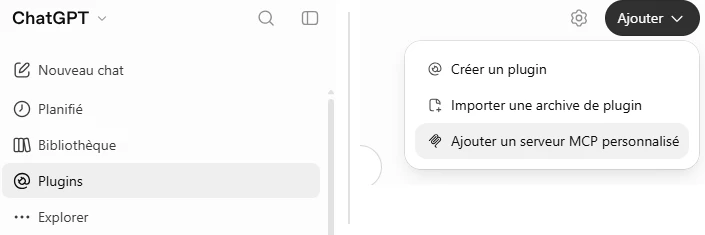
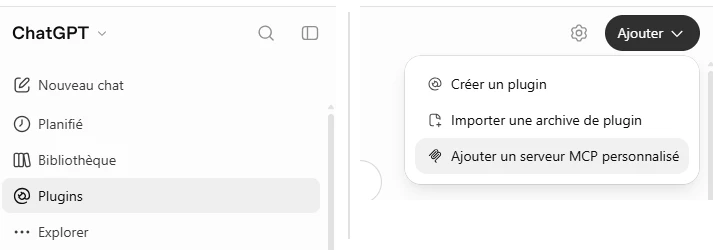
Version web 0.8.22 (BIVOUAC-TECH 9e8ef6f)

diff --git a/app/js/connect.js b/app/js/connect.js
@@ -37,7 +37,8 @@ B.connectWizard = ({ step = 0, ai: aiStart = null, onDone = null } = {}) => {
       <div class="cw-shot-body">${body}</div></div>`;
 
   // Vraies captures de Claude / ChatGPT (src/assets/tuto/, interface en français, novembre 2026),
-  // recadrées sans rien de personnel. Chaque zone [x, y, largeur, hauteur] (en % de l'image) = là où agir :
+  // recadrées sans rien de personnel. Chaque zone [x, y, largeur, hauteur, 'pill'?] (en % de l'image) = là où agir,
+  // au contour exact du bouton ('pill' = bouton tout arrondi) :
   // encadré orange lumineux + pastille numérotée, dans l'ordre du texte. Clic sur l'image = agrandir.
   // En anglais : le schéma dessiné ci-dessus (les menus n'ont pas les mêmes mots).
   // Si Claude ou ChatGPT changent leurs menus : remplacer l'image et recaler les zones.
@@ -46,10 +47,10 @@ B.connectWizard = ({ step = 0, ai: aiStart = null, onDone = null } = {}) => {
       marks: [[87.8, 14.4, 10.2, 6.5], [71.8, 22.3, 27.3, 9.3]] },
     'claude-2': { file: 'claude-2-connecteur-perso.webp', w: 551, h: 470,
       marks: [[4, 22.1, 91.7, 6], [4, 36.8, 91.7, 6.2], [80.2, 88.7, 15.4, 6]] },
-    'chatgpt-1': { file: 'chatgpt-1-plugins.webp', w: 705, h: 235,
-      marks: [[0.6, 69.4, 44.8, 15.3], [86, 0.8, 13.3, 14.9], [59.1, 53.2, 38.7, 13.6]] },
+    'chatgpt-1': { file: 'chatgpt-1-plugins.webp', w: 713, h: 250,
+      marks: [[0.6, 71.2, 44.3, 14.4], [84.85, 6, 13.32, 14.4, 'pill'], [58.5, 56, 38.3, 12.8]] },
     'chatgpt-2': { file: 'chatgpt-2-serveur-mcp.webp', w: 626, h: 771,
-      marks: [[5.3, 14.3, 87.9, 4.7], [5.3, 35.8, 87.9, 4.7], [5.3, 73.8, 87.9, 15.6], [63.1, 91.1, 30, 4.7]] }
+      marks: [[5.3, 14.3, 87.9, 4.7], [5.3, 35.8, 87.9, 4.7], [5.3, 73.8, 87.9, 15.6], [62.9, 91.05, 30.2, 4.67, 'pill']] }
   };
   const real = (key, alt) => {
     if (B.lang !== 'fr') return null;
@@ -59,7 +60,7 @@ B.connectWizard = ({ step = 0, ai: aiStart = null, onDone = null } = {}) => {
       <figcaption class="cw-real-head">${aiAvatar(ai, 20)}<span>${tr('Dans {ai}', { ai: label() })}</span></figcaption>
       <button type="button" class="cw-real-frame" style="width: min(100%, ${width}px)" aria-label="${esc(tr('Agrandir la capture'))}">
         <img src="assets/tuto/${t.file}" width="${t.w}" height="${t.h}" alt="${esc(alt)}" />
-        ${t.marks.map(([x, y, w, h], i) => `<span class="cw-mark" style="left:${x}%;top:${y}%;width:${w}%;height:${h}%;--i:${i}" aria-hidden="true"><b>${i + 1}</b></span>`).join('')}
+        ${t.marks.map(([x, y, w, h, shape], i) => `<span class="cw-mark${shape === 'pill' ? ' pill' : ''}" style="left:${x}%;top:${y}%;width:${w}%;height:${h}%;--i:${i}" aria-hidden="true"><b>${i + 1}</b></span>`).join('')}
       </button>
       <p class="cw-real-foot">${tr('Suivez les numéros dans l\'ordre · cliquez sur l\'image pour l\'agrandir')}</p>
     </figure>`;

diff --git a/app/styles.css b/app/styles.css
@@ -571,6 +571,7 @@ details.advanced[open] summary { margin-bottom: 10px; }
 .cw-mark b { position: absolute; left: -8px; top: -8px; width: 16px; height: 16px; border-radius: 50%;
   background: var(--orange); color: #fff; border: 1.5px solid #fff; font: 700 9px/13px 'Montserrat', sans-serif;
   text-align: center; box-shadow: 0 3px 8px rgba(14, 42, 59, .35); }
+.cw-mark.pill { border-radius: 999px; }
 @keyframes cw-glow {
   0%, 100% { box-shadow: 0 0 0 2px rgba(242, 140, 40, .25), 0 0 10px 2px rgba(242, 140, 40, .25); }
   50% { box-shadow: 0 0 0 5px rgba(242, 140, 40, .18), 0 0 18px 6px rgba(242, 140, 40, .35); } }

diff --git a/app/sw.js b/app/sw.js
@@ -4,7 +4,7 @@
 // sans connexion. Seuls les fichiers du site sont gardés (jamais les données de Supabase).
 // Le numéro est remplacé à la construction du site (scripts/build-web.mjs).
 // =====================================================================
-const CACHE = 'bivouac-0.8.22-mwesw6bn';
+const CACHE = 'bivouac-0.8.22-mwet9i35';
 const SHELL = ['./', 'index.html', 'styles.css', 'manifest.webmanifest'];
 
 self.addEventListener('install', (e) => {
